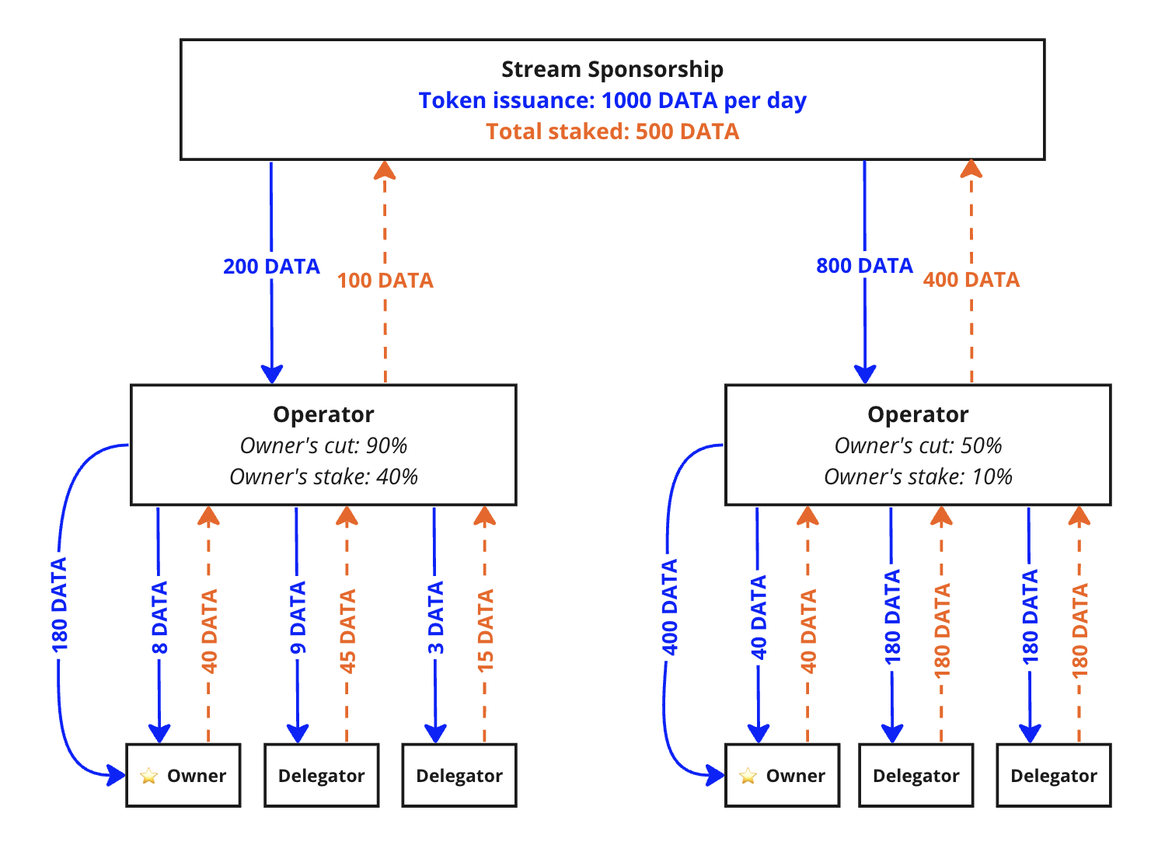
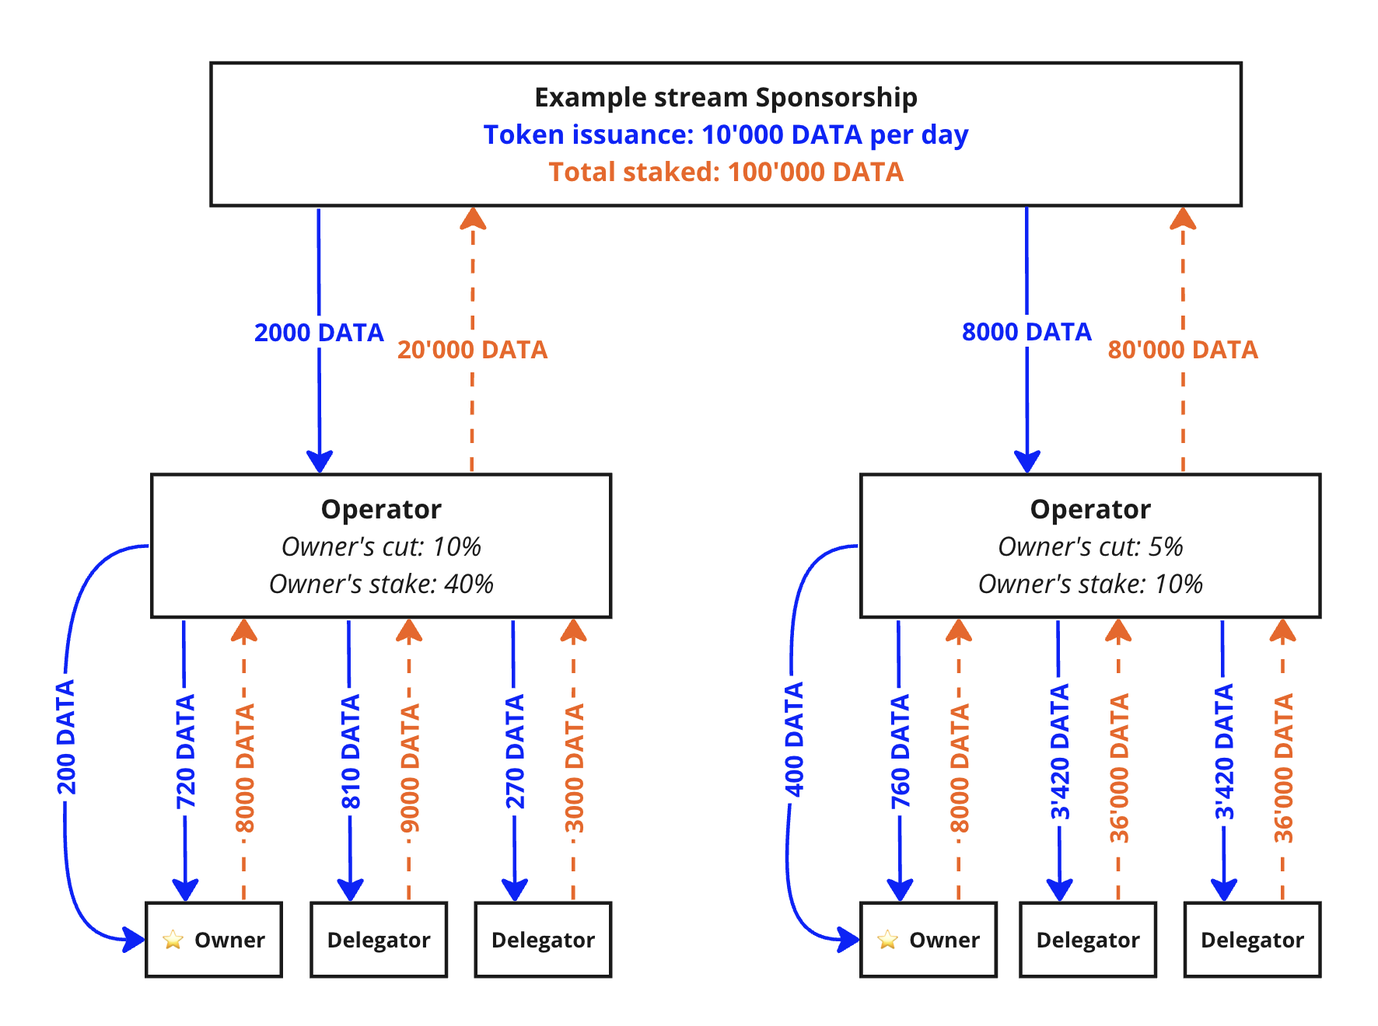
t1 live

diff --git a/docs/docs/guides/become-an-operator.md b/docs/docs/guides/become-an-operator.md
@@ -21,7 +21,7 @@ If you’ve been running a Streamr node in the past you might be familiar with a
 - You can run ~~up to 5 nodes per IP address~~ any number of nodes from the same IP address, although one node per machine is recommended
 - Rewards are ~~automatically paid out at the beginning of the following month~~ claimed from active Sponsorships at any time
 - You can stake ~~up to 20K DATA per node~~ as much as you want. Note that at least 5% of Operator stake must come from the owner, and therefore delegations can not exceed 95%.
-- To participate in the testnets, use specific versions/tags of the Streamr node software, such as `100.0.0-pretestnet.6`. The `latest` tag still points to the previous milestone (Brubeck) software.
+- To participate in the testnets, use specific versions/tags of the Streamr node software, such as `testnet-one.0`. The `latest` tag still points to the previous milestone (Brubeck) software.
 - There is no need for a "beneficiary address" in Streamr 1.0. Instead, the node configuration contains the Operator contract address.
 :::
 
@@ -29,15 +29,16 @@ If you’ve been running a Streamr node in the past you might be familiar with a
 Follow these steps below to setup your Operator so that you can participate in the protocol and collect rewards. 
 
 ### Step 1: Deploy your Operator Contract
-Currently you can practice your Operator deployment in the Mumbai pre-testnet. Go the the [Mumbai Streamr Hub](https://mumbai.streamr.network/hub), connect your wallet (top-right corner), navigate to Network -> Operators, then click "Become an Operator" and complete the dialog. The [Operator contract](../streamr-network/network-roles/operators#the-operator-contract) is deployed on the Polygon Mumbai blockchain.
-
+In the [Streamr Hub](https://streamr.network/hub), connect your wallet (top-right corner), navigate to Network -> Operators, then click "Become an Operator" and complete the dialog. The [Operator contract](../streamr-network/network-roles/operators#the-operator-contract) is deployed on the Polygon blockchain.
 
 The wallet/account that you use to make the Operator creation transaction will be known as the **Owner wallet**. It's the wallet you'll use to control your Operator business. The owner wallet controls the Operator and is able to stake and unstake on Sponsorships, update the Operator settings, and withdraw the owner's share of the Operator's stake and earnings. This should be a very secure wallet as it controls the whole Operator. A hardware wallet (Ledger, etc) is recommended, although a software wallet (Metamask) will work too - just be sure to keep the account private and never share your private key or seed phrase with anyone.
 
-You'll need to decide on your [owner's cut](../streamr-network/network-roles/operators#owners-cut) at the time of deployment. You'll be able to change this value later on, as long as you unstake from all Sponsorships first.
+You'll need to decide on your [owner's cut](../streamr-network/network-roles/operators#owners-cut) at the time of your Operator deployment. You'll be able to change this value later on, as long as you unstake from all Sponsorships first.
+
+You can also practice your Operator deployment in the Mumbai environment with the [Mumbai Streamr Hub](https://mumbai.streamr.network/hub) (rather than switching networks on the Streamr Hub). You'll need Mumbai `MATIC` - widely available with [public faucets](https://mumbaifaucet.com) and you'll need ` TEST` tokens (the Mumbai network's worthless `DATA` tokens) - There is a `TEST` token faucet on the [Streamr Discord](https://discord.gg/gZAm8P7hK8).
 
 ### Step 2: Run a Streamr node
-Spin up a Streamr node using this [guide](./how-to-run-streamr-node.md). 
+Spin up a Streamr node using this [guide](./how-to-run-streamr-node.md).
 
 Nodes will consume resources, mainly bandwidth and CPU. RAM usage is moderate and disk usage in negligible. 
 
@@ -64,19 +65,21 @@ First, scroll down on your Operator page and find the "Operator's node addresses
 
 ![image](@site/static/img/node-addresses.png)
 
-**Update your noode's configuration file**
+**Update your node's configuration file**
 
-Then, update your node's config file. For Mumbai pre-testnet, copy and paste [this config snippet](#mumbai-testing-environment-node-config). In that snippet:
+Then, update your node's config file. Use [this testnet config](#testnet-configuration-node-config). Inside this configuration you will need to update:
 - Replace `"YOUR_OPERATOR_CONTRACT_ADDRESS"` with your **Operator address** (keep the quotes).
 - Replace `"NODE_PRIVATE_KEY"` with the **private key** of your **node wallet** (keep the quotes).
 
-After the config file changes, restart your node(s). If you run several nodes, you can use the same config file for all of them.
+After the config file changes, restart your node(s). **If you run several nodes, you can use the same config file for all of them.**
+
+If you're building your Operator in Mumbai, copy and paste [this config snippet](#mumbai-testing-environment-node-config) instead.
 
 ### Step 4: Fund your nodes
 You’ll need a bit of `MATIC` (the gas token of Polygon) in your node’s wallets as Streamr nodes that participate in sponsored streams will periodically make transactions. 1 to 5 `MATIC` is recommended since the nodes will be making a few transactions per day. If the node runs out of gas while they’re a part of an active Sponsorship, then a penalty may be applied to your unclaimed earnings. See [Operator value maintenance](../streamr-network/network-roles/operators#operator-maintenance).
 
 ### Step 5: Fund your Operator
-Now, on your Operator page in the Streamr Hub UI, fund your Operator with DATA tokens (on Mumbai, TEST tokens). There's no minimum amount, but note that the more you fund, the more you can accept delegations. The owner (you) must have at least a 5% stake in the Operator.
+Now, on your Operator page in the Streamr Hub UI, fund your Operator with DATA tokens (or if you're in Mumbai, then TEST tokens). There's no minimum amount, but note that the more tokens you fund your Operator with, the more you can accept delegations. The owner (you) must have at least a 5% stake in the Operator.
 
 ### Step 6: Join sponsorships
 All the checkmarks in the Operator status section on your Operator page should now be green, and you’re ready to join Sponsorships! In the Hub, go to Network -> Sponsorships and find a Sponsorship you want your Operator to start working on. Click the "Join as Operator" button and select your stake. Note there is a minimum stake of 5000 `DATA` tokens for each Sponsorship that you join. Joining Sponsorships locks your tokens for a period of time, defined in the Sponsorship contract.
@@ -96,7 +99,11 @@ The [Mumbai Hub](https://mumbai.streamr.network) is the place to test out your O
 You'll need Mumbai `MATIC` - widely available with [public faucets](https://mumbaifaucet.com) and you'll need ` TEST` tokens (the Mumbai network's worthless `DATA` tokens) - There is a `TEST` token faucet on the [Streamr Discord](https://discord.gg/gZAm8P7hK8).
 
 ## Mumbai testing environment node config
-Below is the template you can use to override and replace the contents of your config file with. You can copy this snippet or download the [JSON file](../../static/assets/default.json). 
+Below is the template you can use to override and replace the contents of your config file with. You can copy this snippet or download the [JSON file](../../static/assets/mumbai-default.json). 
+
+:::info Important
+- This is the Mumbai configuration. If you want to participate in the incentivized testnets, use the [testnet configuration](#testnet-configuration-node-config).
+:::
 
 ```json
 {
@@ -155,6 +162,24 @@ Below is the template you can use to override and replace the contents of your c
     "plugins": {
         "operator": {
             "operatorContractAddress": "YOUR_OPERATOR_CONTRACT_ADDRESS"
+        }
+    }
+}
+```
+
+## Testnet configuration node config
+Below is the template you can use to override and replace the contents of your config file with. You can copy this snippet or download the [JSON file](../../static/assets/default.json). 
+
+```json
+{
+    "client": {
+        "auth": {
+            "privateKey": "NODE_PRIVATE_KEY"
+        }
+    },
+    "plugins": {
+        "operator": {
+            "operatorContractAddress": "OPERATOR_CONTRACT_ADDRESS"
         }
     }
 }

diff --git a/docs/docs/guides/how-to-run-streamr-node.md b/docs/docs/guides/how-to-run-streamr-node.md
@@ -88,7 +88,7 @@ Start the config wizard with the below command. Docker will download the node im
 **Linux / macOS**
 
 ```
-sudo docker run -it -v $(cd ~/.streamrDocker && pwd):/home/streamr/.streamr streamr/broker-node:v100.0.0-pretestnet.6 bin/config-wizard
+sudo docker run -it -v $(cd ~/.streamrDocker && pwd):/home/streamr/.streamr streamr/broker-node:testnet-one.0 bin/config-wizard
 ```
 
 **Windows PowerShell**
@@ -102,7 +102,7 @@ cd ~/.streamrDocker
 Then run the config wizard:
 
 ```
-docker run -it -v ${pwd}:/home/streamr/.streamr streamr/broker-node:v100.0.0-pretestnet.6 bin/config-wizard
+docker run -it -v ${pwd}:/home/streamr/.streamr streamr/broker-node:testnet-one.0 bin/config-wizard
 ```
 
 **Using the config wizard**
@@ -124,7 +124,9 @@ The path to the config file in the `docker run` command and the path defined via
 :::
 
 ### Step 3b: Update the node config file
-Replace the node config file (typically located at `~/.streamrDocker/config/default.json`) contents with the Mumbai environment [testnet config](./become-an-operator.md#mumbai-testing-environment-node-config) using a text editor. If you previously generated a node signing key then you can keep using that `privateKey` but the file schema must match what's in the provided [testnet config](./become-an-operator.md#mumbai-testing-environment-node-config).
+Replace the node config file (typically located at `~/.streamrDocker/config/default.json`) contents with the [testnet config](./become-an-operator.md#testnet-configuration-node-config) using a text editor. If you previously generated a node signing key then you can keep using that `privateKey` but the file schema must match what's in the provided [testnet config](./become-an-operator.md#testnet-configuration-node-config).
+
+If you intend to test your Operator in the Mumbai environment, then the above advice applies, but use instead the [Mumbai testnet config](./become-an-operator.md#mumbai-testing-environment-node-config).
 
 If you're running a node to become an Operator, then you could now jump back to [Step 3 of becoming an Operator](./become-an-operator/#step-3-pair-your-node-with-your-operator-contract) to add your Operator contract address into the node config before starting your node.
 
@@ -133,7 +135,7 @@ If you're running a node to become an Operator, then you could now jump back to 
 **Linux / macOS**
 
 ```
-sudo docker run -p 32200:32200 --name streamr --restart unless-stopped -d -v $(cd ~/.streamrDocker && pwd):/home/streamr/.streamr streamr/broker-node:v100.0.0-pretestnet.6
+sudo docker run -p 32200:32200 --name streamr --restart unless-stopped -d -v $(cd ~/.streamrDocker && pwd):/home/streamr/.streamr streamr/broker-node:testnet-one.0
 ```
 
 **Windows PowerShell**
@@ -147,7 +149,7 @@ cd ~/.streamrDocker
 Start your node:
 
 ```
-docker run -p 32200:32200 --name streamr --restart unless-stopped -d -v ${pwd}:/home/streamr/.streamr streamr/broker-node:v100.0.0-pretestnet.6
+docker run -p 32200:32200 --name streamr --restart unless-stopped -d -v ${pwd}:/home/streamr/.streamr streamr/broker-node:testnet-one.0
 ```
 
 **The `docker run` command, deconstructed:**
@@ -225,11 +227,11 @@ See [Docker's documentation](https://docs.docker.com/engine/reference/commandlin
 ## The npm approach
 If you don’t have Node.js installed, install it using [nvm](https://github.com/nvm-sh/nvm#installing-and-updating) or manually from the [Node.js site](https://nodejs.org/en/download/). The Broker requires at least Node.js version 16.x. Once installed, you can download, configure, and start the Streamr Broker.
 
-### Step 1: Install the latest "pretestnet" version using npm
--   Run `npm install -g streamr-broker@100.0.0-pretestnet.6` to download and install the package. You may need administrative access to run this command. The latest testnet version may be different to the version listed here, if in doubt, check the [npm registry](https://www.npmjs.com/package/streamr-broker?activeTab=versions).
+### Step 1: Install the latest testnet version using npm
+-   Run `npm install -g streamr-broker@testnet-one.0` to download and install the package. You may need administrative access to run this command. The latest testnet version may be different to the version listed here, if in doubt, check the [npm registry](https://www.npmjs.com/package/streamr-broker?activeTab=versions).
 
 ```
-npm install -g streamr-broker@100.0.0-pretestnet.6
+npm install -g streamr-broker@testnet-one.0
 ```
 
 There can be plenty of output from npm. If the installation fails with an error, you should address it before continuing.
@@ -245,7 +247,9 @@ The wizard asks if you would like it to display your Ethereum private key. From 
 ### Step 2b: Update the node config file
 If you want to become an Operator in the testnet, you need to manually modify the node config file to include your Operator contract address.
 
-Find the config file generated in step 2a and take a backup copy. Then replace the config file with the Mumbai environment [testnet config](./become-an-operator.md#mumbai-testing-environment-node-config) using a text editor. Replace YOUR_OPERATOR_CONTRACT_ADDRESS with your newly deployed Operator contract's address (find it on the Operator page, there's a "Copy address" button next to it), and NODE_PRIVATE_KEY with the private key in your automatically generated backup. If you previously generated a node signing key then you can also keep using that `privateKey`.
+Find the config file generated in step 2a and take a backup copy. Then replace the config file with the [testnet config](./become-an-operator.md#testnet-configuration-node-config) using a text editor. Replace YOUR_OPERATOR_CONTRACT_ADDRESS with your newly deployed Operator contract's address (find it on the Operator page, there's a "Copy address" button next to it), and NODE_PRIVATE_KEY with the private key in your automatically generated backup. If you previously generated a node signing key then you can also keep using that `privateKey`.
+
+If you intend to test your Operator in the Mumbai environment, the same above advice applies, but use instead the [Mumbai testnet config](./become-an-operator.md#mumbai-testing-environment-node-config) using a text editor. Replace YOUR_OPERATOR_CONTRACT_ADDRESS with your newly deployed Operator contract's address (find it on the Operator page, there's a "Copy address" button next to it), and NODE_PRIVATE_KEY with the private key in your automatically generated backup. If you previously generated a node signing key then you can also keep using that `privateKey`.
 
 ### Step 3: Start the Streamr node
 If you want to become an Operator in the testnet, then you must first perform the [Step 3 of becoming an Operator](https://docs.streamr.network/guides/become-an-operator/#step-3-pair-your-node-with-your-operator-contract) to pair your nodes with your Operator contract before starting your node.
@@ -301,5 +305,5 @@ For extra logging on your Streamr node, add the `LOG_LEVEL` environmental variab
 
 For example,
 ```shell
-sudo docker run -p 32200:32200 --name streamr --restart unless-stopped -d -e LOG_LEVEL=trace -v $(cd ~/.streamrDocker && pwd):/home/streamr/.streamr streamr/broker-node:v100.0.0-pretestnet.6
+sudo docker run -p 32200:32200 --name streamr --restart unless-stopped -d -e LOG_LEVEL=trace -v $(cd ~/.streamrDocker && pwd):/home/streamr/.streamr streamr/broker-node:testnet-one.0
 ```

diff --git a/docs/docs/streamr-testnets/testnet-faq.md b/docs/docs/streamr-testnets/testnet-faq.md
@@ -117,7 +117,7 @@ Add given nodes public key to operator node addresses.
 I’m receiving the following warning message.
 
 ```JSON
-INFO [2023-11-10T10:52:30.450] (broker              ): Start broker version 100.0.0-pretestnet.6
+INFO [2023-11-10T10:52:30.450] (broker              ): Start broker version testnet-one.0
 Error: call revert exception [ See: https://links.ethers.org/v5-errors-CALL_EXCEPTION ] (method="metadata()", data="0x", errorArgs=null, errorName=null, errorSignature=null, reason=null, code=CALL_EXCEPTION, version=abi/5.7.0)
 ```
 
@@ -164,7 +164,7 @@ I’m receiving the following warning message.
 Could not synchronize with thegraph blockchain indexing service.
 
 **Solution:**
-This is likely to only be an issue on the pretestnet environment where The Graph support is limited. Check that your internet connection is active and try to restart the Streamr node. If this doesn’t help, try again in a while, The Graph service may be updating.
+This is likely to only be an issue on the Mumbai environment where The Graph support is limited. Check that your internet connection is active and try to restart the Streamr node. If this doesn’t help, try again in a while, The Graph service may be updating.
 
 ## Staking on, and earning from Sponsorships
 #### Will my rewards automatically be sent to my wallet?
@@ -210,7 +210,7 @@ The global minimum is set to 5k DATA. This value could be changed in the future 
 #### As a Delegator can I always withdraw tokens from the Operators that I have delegated to?
 Eventually, yes. If there's not enough available balance on the Operator you have delegated on then your withdrawal gets entered into the delegation que. When the Operator has an available balance, your tokens will be withdrawn. This will take at maximum 30 days and will happen automatically with no further action required.
 
-## Slashing
+## Slashing & kicking
 #### How and when does slashing occurs? When exactly will operators be slashed?
 There are two kinds of slashing events that Operators need to pay attention to. These are "Normal slashing" and "False flag" slashing. The short answer is that normal slashing occurs when nodes are caught being offline or unreachable when they should be online and doing work. It's a similar story for false flag voting, though the penalties are smaller. 
 
@@ -226,7 +226,16 @@ Running reliable and reachable nodes with good redundancy is the best defense ag
 Most operators would set a redundancy Factor parameter to a number more than 1, which means that you have multiple nodes doing the same work. You'd only get slashed if all of them are offline when you're being inspected by the majority of flag reviewers. A higher redundancy factor therefore protects from slashing.
 
 #### What happens to the slashed tokens?
-Slashed tokens are moved to the project treasury controlled by Streamr DAO governance. 
+Slashed tokens are sent to a  controlled by Streamr DAO governance.
 
 #### What happens when the Sponsorship is exhausted of tokens, am I still on the hook for slashing penalties until I leave the Sponsorship?
 Yes. If you are staked on the Sponsorship, you must do the work (contribute to the stream) and you're subject to slashing if you don't. Sponsorships that you have joined can get topped up so they may activate to start paying out once a sponsor funds the Sponsorship. You must unstake to remove this staking risk. Unstaking does not happen automatically.
+
+#### What are the conditions for getting kicked from a Sponsorship?
+If you stake has dropped below the global minimum stake. This can be caused by slashing events against your Operator 
+
+#### I got kicked from a Sponsorship, what happens to me?
+You'll no longer be earning from the Sponsorship and no longer required to do the work of the Sponsorship. The unwithdrawn earnings from that Sponsorship are automatically sent out, along with the remaining stake after slashing.
+
+#### I force unstaked from a Sponsorship, what happens?
+You'll need to pay the early exit fee of 5k DATA. The unwithdrawn earnings from that Sponsorship are automatically sent out, along with the remaining stake after slashing.

diff --git a/docs/docs/streamr-testnets/testnets.md b/docs/docs/streamr-testnets/testnets.md
@@ -16,36 +16,44 @@ The 1.0 testnets will be launched with the technical parameters set out in: [SIP
 3. [Delegate](../streamr-network/network-roles/delegators.md) your `DATA` tokens onto other Operators
 
 ## Current node software version
-Use node version: `v100.0.0-pretestnet.6`. Do not use the `latest` tag release.
+Use node version: `testnet-one.0`. Do not use the `latest` tag release.
 
 ## Schedules
 Keep a close eye on this page as these dates may change based on the findings of each testnet.
 
-### Pre-testnet
+### Mumbai Operator testing (the pre-testnet)
 - Live! Checkout the [Mumbai Streamr Hub](https://mumbai.streamr.network)
 
 ### Testnet 1
-- Start date: Mid/Late Nov, 2023 (estimate)
+- Start date: 4PM CET / 15:00 UTC, November 27th, 2023
 - Reward pool: 1 million DATA
 - Duration: 7 days
 
 ### Testnet 2
 - Start date: Nov/Dec, 2023 (estimate)
 - Reward pool: 1.5 million DATA
-- Duration: TBA
+- Duration: 21 days
 
 ### Testnet 3
 - Start date: Dec, 2023 (estimate)
 - Reward pool: 2.5 million DATA
-- Duration: TBA
+- Duration: 14 days
 
 ### Testnet Sponsorships
 Each testnet will have a set of Sponsorships that will be the source of incentivization. These will be visible on [The Hub](https://streamr.network/hub/network) (release TBA).
+
+### The Streamr 1.0 Hub
+- Create your Operator on the [Streamr Hub](https://streamr.network/hub/network/operators)
 
 ### The Mumbai test environment
 The [Mumbai Hub](https://mumbai.streamr.network) is the place to test out your Operator before creating it on Polygon with real tokens.
 
 You'll need Mumbai `MATIC` - widely available with [public faucets](https://mumbaifaucet.com) and you'll need ` TEST` tokens (the Mumbai network's worthless `DATA` tokens) - There is a `TEST` token faucet on the [Streamr Discord](https://discord.gg/gZAm8P7hK8).
+
+### Community resources
+- Tutorial videos (follow at your own risk)
+- [StreamrRUN - A Streamr Node in 3 minutes, by Logic Ethos](https://www.youtube.com/watch?v=tGTdaNTtjLY)
+- [Manage your Streamr Node in 1 minute, by Logic Ethos](https://www.youtube.com/watch?v=V6yS0bCt13g)
 
 ### Bounty prizes
 We're offering DATA prizes for quality contributions to the following categories:

diff --git a/docs/docs/streamr-network/network-roles/operators.md b/docs/docs/streamr-network/network-roles/operators.md
@@ -38,13 +38,13 @@ The Operator plugin will automatically validate that other Operators are doing w
 ![image](@site/static/img/operator-sponsorship-relational-diagram.png)
 
 ### Operator heartbeat
-To observe your Operator's heartbeat, paste in your Operator contract address into [streams search](https://mumbai.streamr.network/hub/streams) and select the coordination stream, then "Live data". If your node is connectable then there will be a "websocket entry" inside the peer descriptor heartbeats. Be patient, it may require a browser refresh, also note Firefox is currently not working- please use Chrome.
+To observe your Operator's heartbeat, paste in your Operator contract address into [streams search](https://streamr.network/hub/streams) and select the coordination stream, then "Live data". If your node is connectable then there will be a "websocket entry" inside the peer descriptor heartbeats. Be patient, it may require a browser refresh, also note Firefox is currently not working- please use Chrome.
 
 ### Node redundancy factor
 The redundancy factor sets the amount of duplicated work when running a fleet of multiple nodes. Doing redundant work protects against slashing in case some of your nodes experience failures. For example, setting this to 1 means that no duplication of work occurs (the feature is off), and setting it to 2 means that each stream assignment will be worked on by 2 nodes in your fleet.
 
-### Owner’s cut
-The Operator’s cut is the percentage taken by the Operator from all earnings. This percentage can not be changed later. The remainder percentage is shared among all Delegators, including the Operator's own stake (if the Operator has self-delegated).
+### Owner's cut
+The Operator’s cut is the percentage taken by the Operator from all earnings. This percentage can be changed, but only while the Operator is not staked in any Sponsorships. The remainder percentage is shared among all Delegators, including the Operator's own stake (if the Operator has self-delegated).
 
 ### Operator maintenance
 #### Operator uncollected earnings limit

diff --git a/docs/docs/streamr-network/incentives/stream-sponsorships.md b/docs/docs/streamr-network/incentives/stream-sponsorships.md
@@ -26,7 +26,7 @@ The proportion of earnings that each Owner-Operator and delegators receive is ba
 - The **owner's cut** percentage in each Operator that has staked into the Sponsorship
 
 ![image](@site/static/img/stream-sponsorship.png)
-<!-- TODO bigger stake numbers -->
+
 In this example, the Operator with the smaller **Owner's cut** has attracted more delegation, and thus a larger share of the earnings emitted from the Sponsorship smart contract.
 
 The amount of DATA tokens the Operator stakes on the Sponsorship determines the size of their share of the token flow. The Operator will generally stake on Sponsorships where they can earn the best available yield for their stake. Other Operators in a Sponsorship are there to share the cake, so overcrowded Sponsorships may not offer the best yields, and some Operators will decide to mine other Sponsorships instead. Like any open market, the market of servicing Sponsorships will always gravitate towards achieving equilibrium between supply and demand. Note that the Operator owner earns twice- once for due to their owner's cut and twice due to their own stake in their Operator. 

diff --git a/docs/docs/usage/connect-apps-and-iot/streamr-node-interface.md b/docs/docs/usage/connect-apps-and-iot/streamr-node-interface.md
@@ -3,7 +3,7 @@ sidebar_position: 1
 ---
 
 :::caution
-Note that this documentation is for the Brubeck network - the current production network. If you're running a node for the purpose of publishing/subscribing to data on the Streamr Network then avoid the `pretestnet` versions of the Streamr node and Streamr SDK.
+Note that this documentation is for the Brubeck network - the current production network. If you're running a node for the purpose of publishing/subscribing to data on the Streamr Network then avoid the `testnet` versions of the Streamr node and Streamr SDK.
 :::
 
 # Connect to a Streamr node
